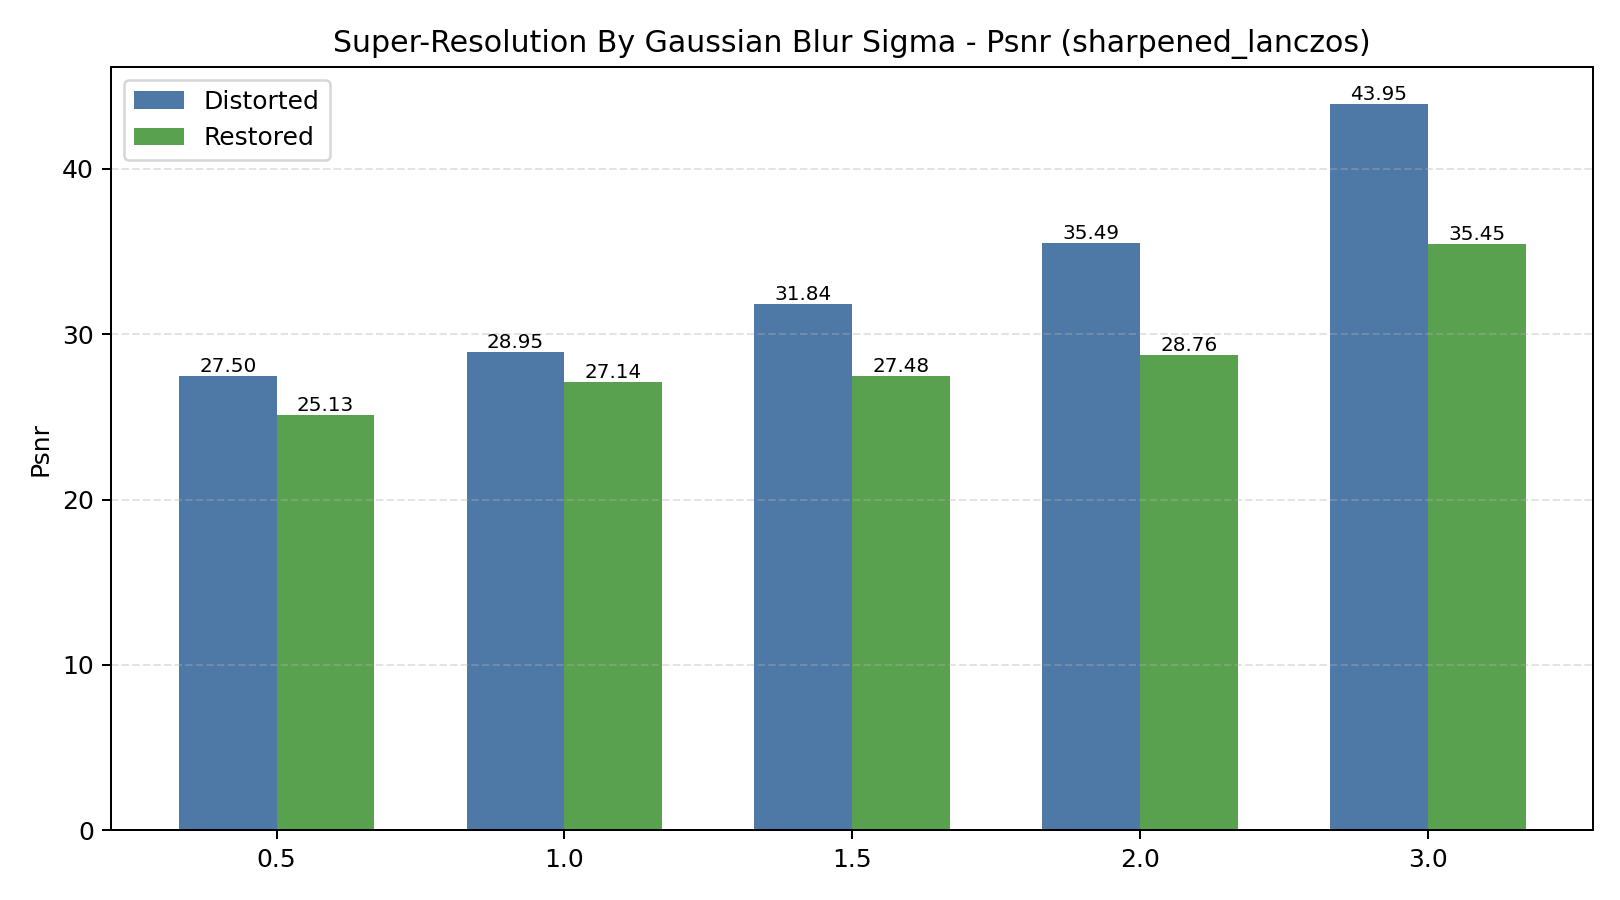
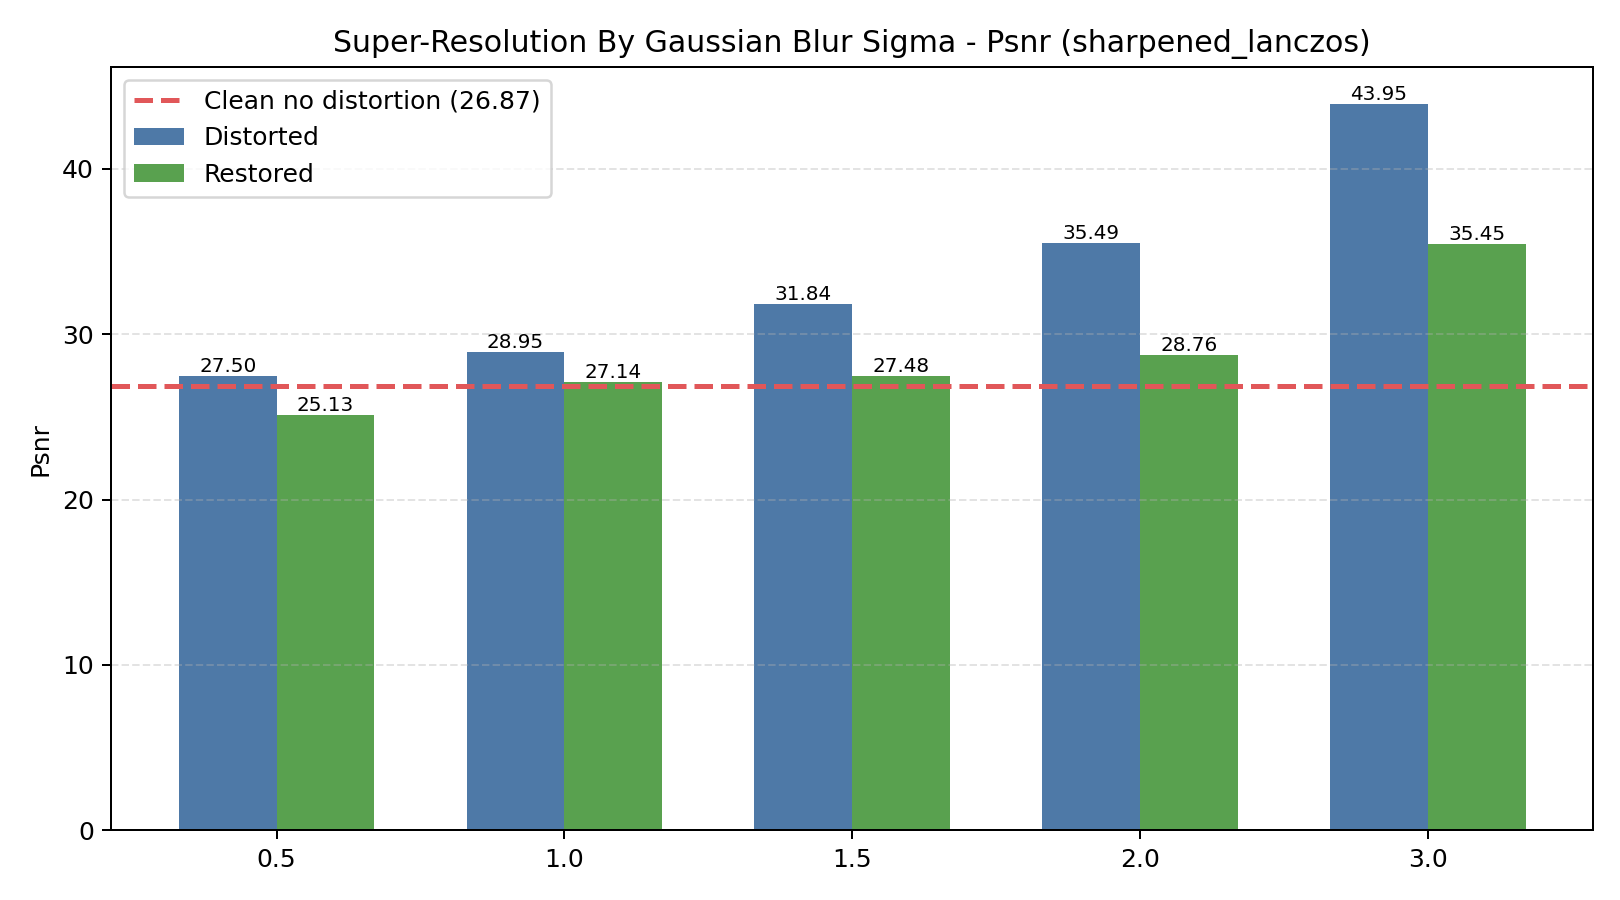
Add clean baseline to Task 1 PSNR graphs

Changed region(s): [[0.0617, 0.0622, 0.3395, 0.2489], [0.0617, 0.4044, 0.9877, 0.4356]]

diff --git a/task/task 1 super resalution/super_resolution_snr.py b/task/task 1 super resalution/super_resolution_snr.py
@@ -19,6 +19,7 @@ if hasattr(sys.stdout, "reconfigure"):
 
 
 OUTPUT_DIR = Path("result/results task 1/super_resolution_snr")
+CLEAN_METRICS_PATH = Path("result/results task 1/super_resolution/Clean/metrics.csv")
 RESTORATION_MODULE_PATH = Path("task/restoration/image_restoration.py")
 LEVEL_GROUPS = {
     "gaussian_noise_snr": {
@@ -166,6 +167,7 @@ def save_metric_graph(
     title: str,
     metric: str,
     output_path: Path,
+    clean_baseline: float | None = None,
 ) -> None:
     x_positions = np.arange(len(labels))
     width = 0.34
@@ -193,6 +195,16 @@ def save_metric_graph(
         "(sharpened_lanczos)"
     )
     plt.grid(axis="y", linestyle="--", alpha=0.35)
+
+    if clean_baseline is not None:
+        plt.axhline(
+            clean_baseline,
+            color="#E15759",
+            linestyle="--",
+            linewidth=2,
+            label=f"Clean no distortion ({clean_baseline:.2f})",
+        )
+
     plt.legend()
 
     for bars in [distorted_bars, restored_bars]:
@@ -226,6 +238,8 @@ def main() -> None:
     restoration_module = load_restoration_module()
     rows: list[dict[str, str | float]] = []
     graph_values: dict[str, dict[str, dict[str, list[float] | list[str]]]] = {}
+    clean_metrics = read_method_metrics(CLEAN_METRICS_PATH)
+    clean_baseline_psnr = clean_metrics["sharpened_lanczos"]["psnr"]
 
     for distortion_type, group in LEVEL_GROUPS.items():
         graph_values[distortion_type] = {
@@ -282,6 +296,7 @@ def main() -> None:
                 group["title"],
                 metric,
                 OUTPUT_DIR / f"{distortion_type}_{metric}_graph.png",
+                clean_baseline_psnr if metric == "psnr" else None,
             )
 
     (OUTPUT_DIR / "methods.txt").write_text(
